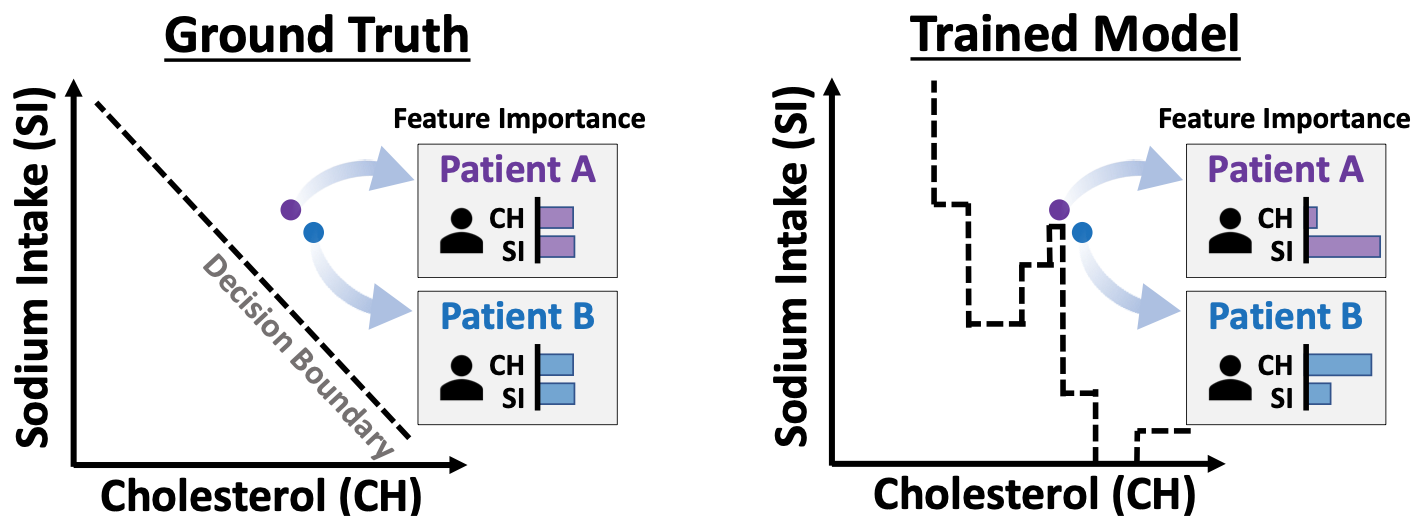
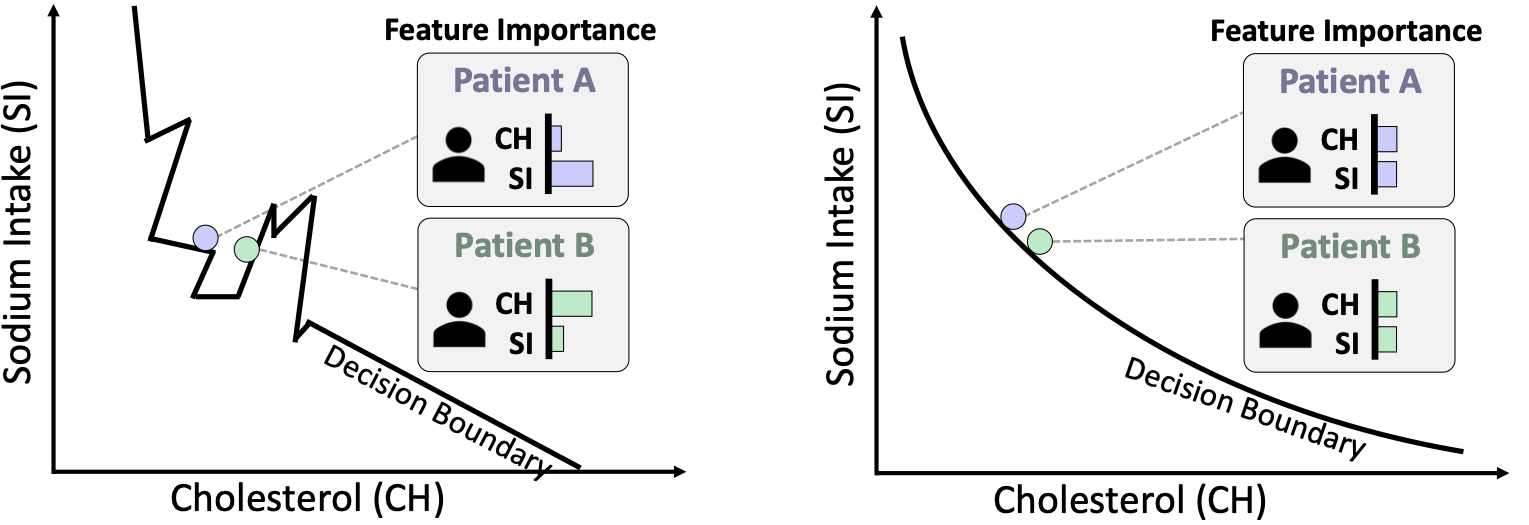
update gpec camera-ready

Changed region(s): [[0.5268, 0.0, 1.0, 0.9752], [0.0, 0.0, 0.4648, 0.9752], [0.6507, 0.1524, 0.6817, 0.2438]]

diff --git a/index.md b/index.md
@@ -72,7 +72,7 @@ Justin Cosentino, Babak Behsaz, Babak Alipanahi, Zachary R McCaw, Davin Hill, Ta
 <a href="https://arxiv.org/abs/2210.02419"><img align="left" src="/images/paper_thumbnails/gpec2.png" class = 'paper_thumbnail'>
 
 **Boundary-Aware Uncertainty for Feature Attribution Explainers**  
-Davin Hill, Aria Masoomi, Sandesh Ghimire, Max Torop & Jennifer Dy  
+Davin Hill, Aria Masoomi, Max Torop, Sandesh Ghimire & Jennifer Dy  
 *AISTATS 2024*  
 [[Preprint]](https://arxiv.org/abs/2210.02419)
 
